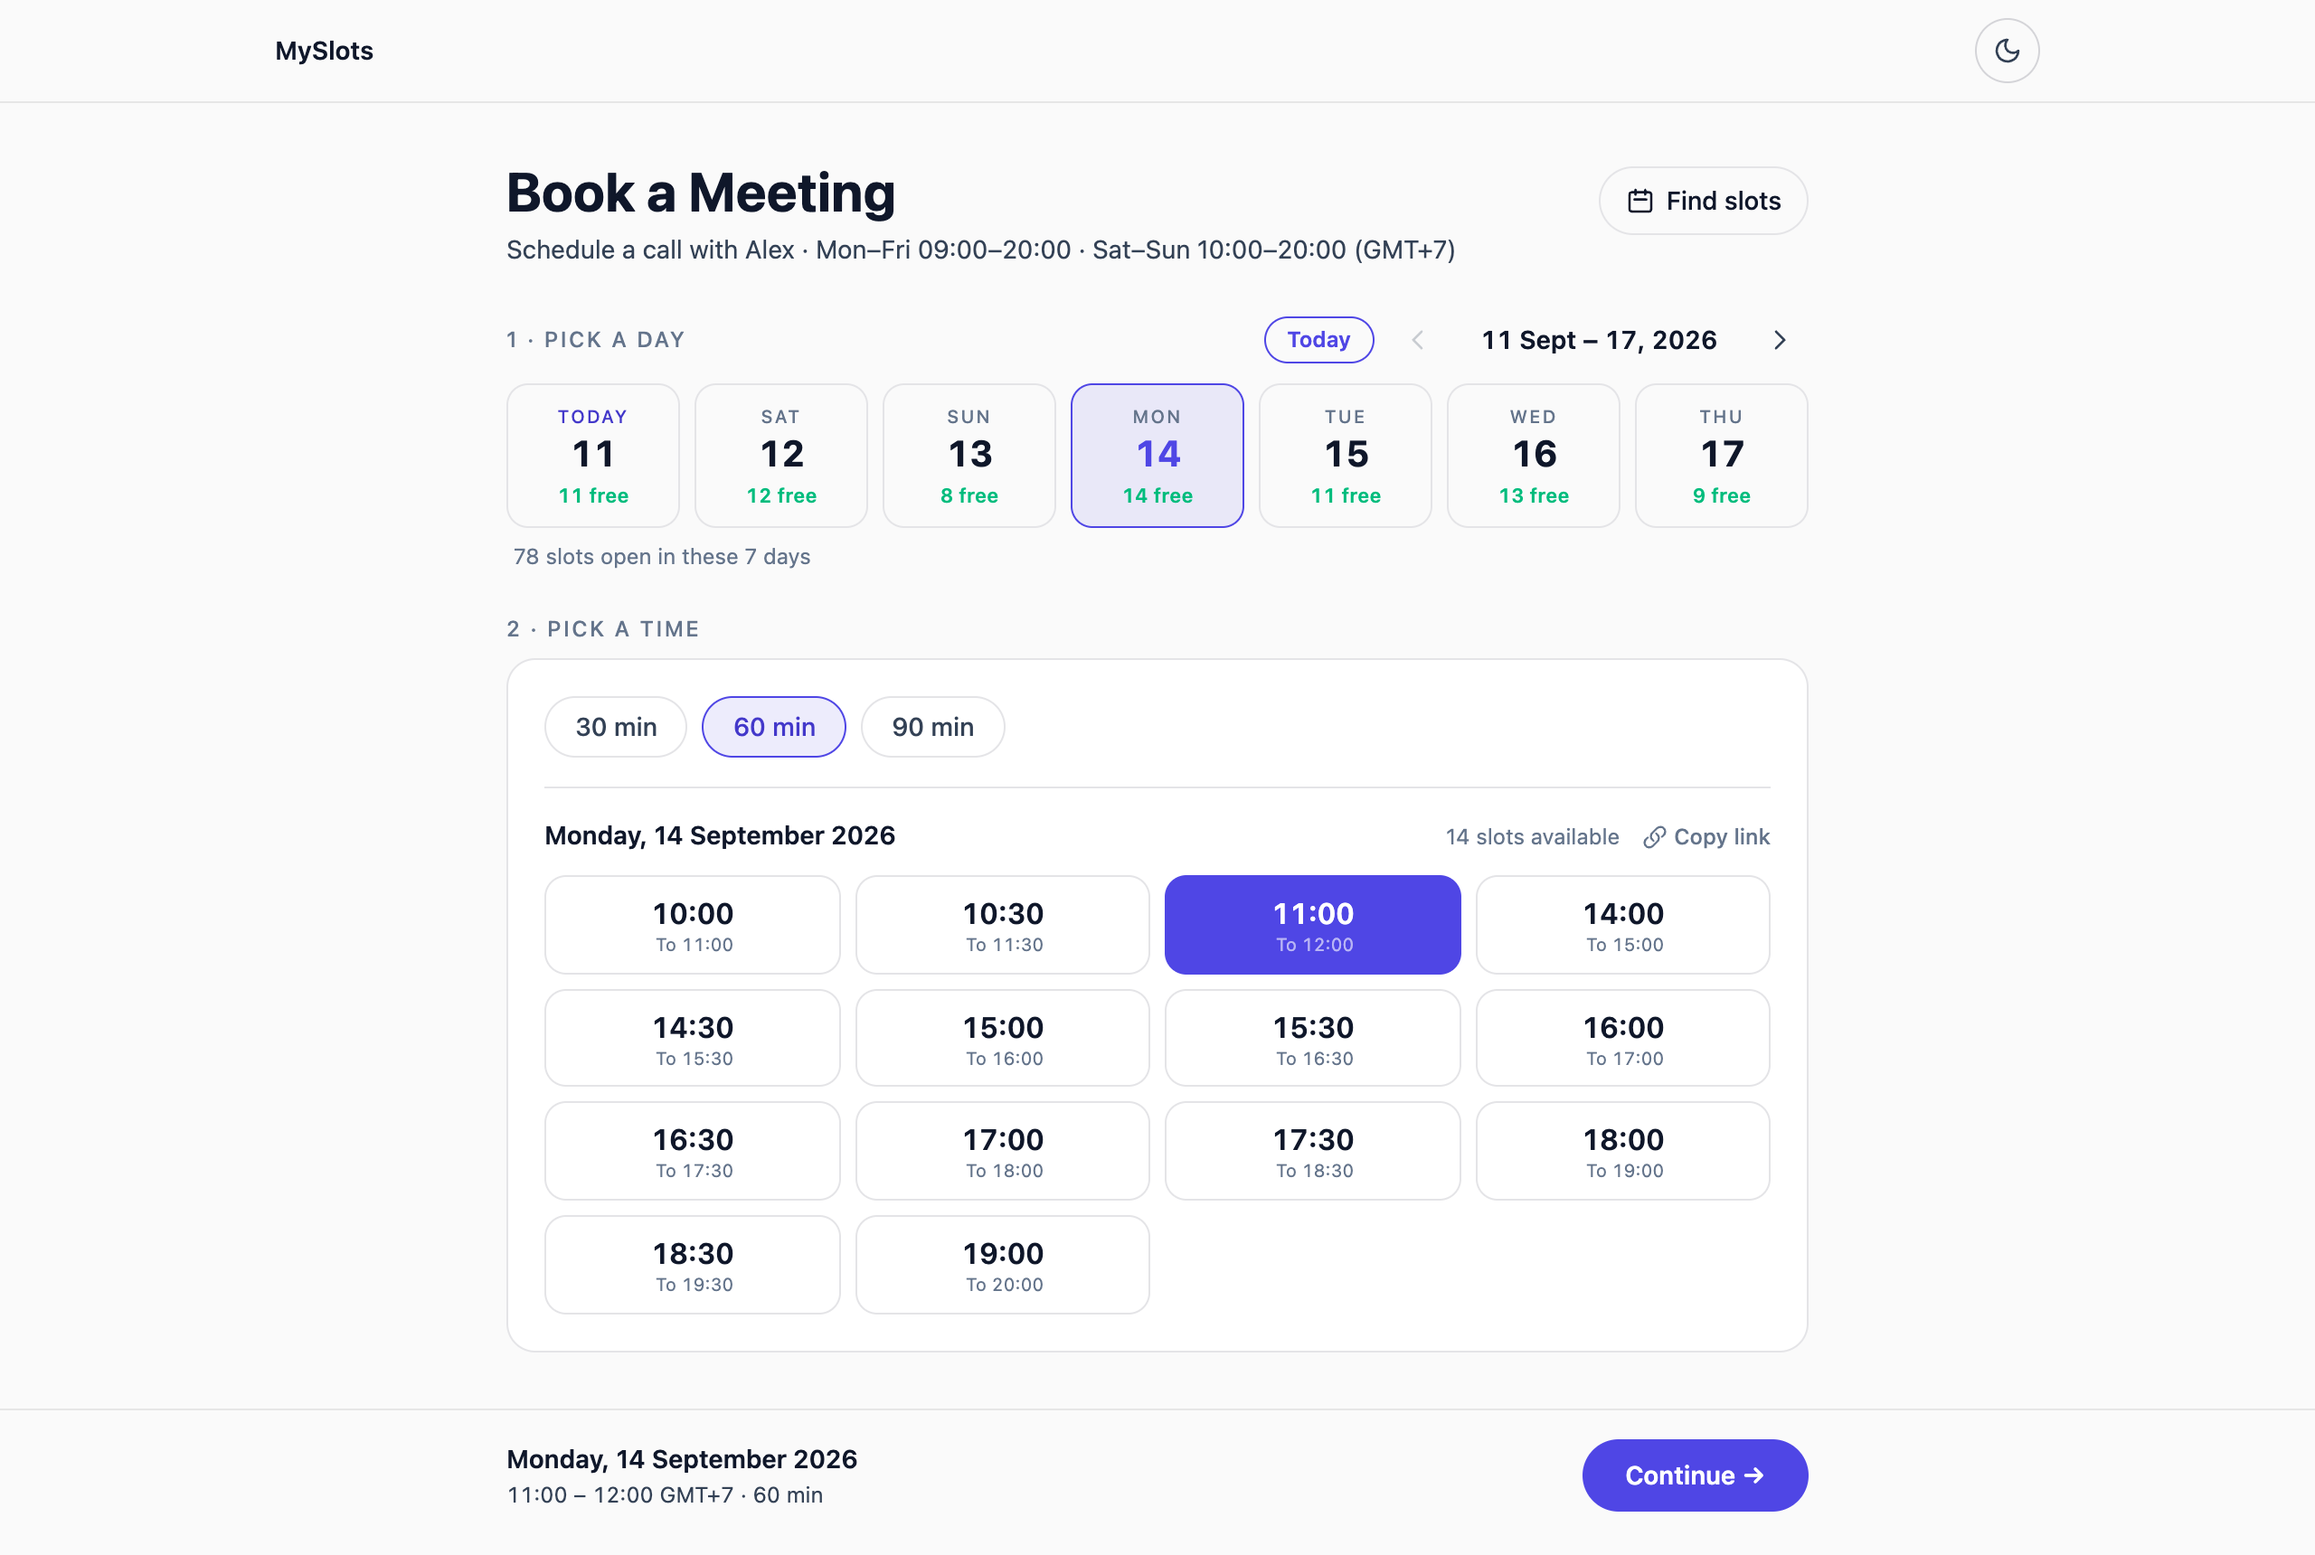
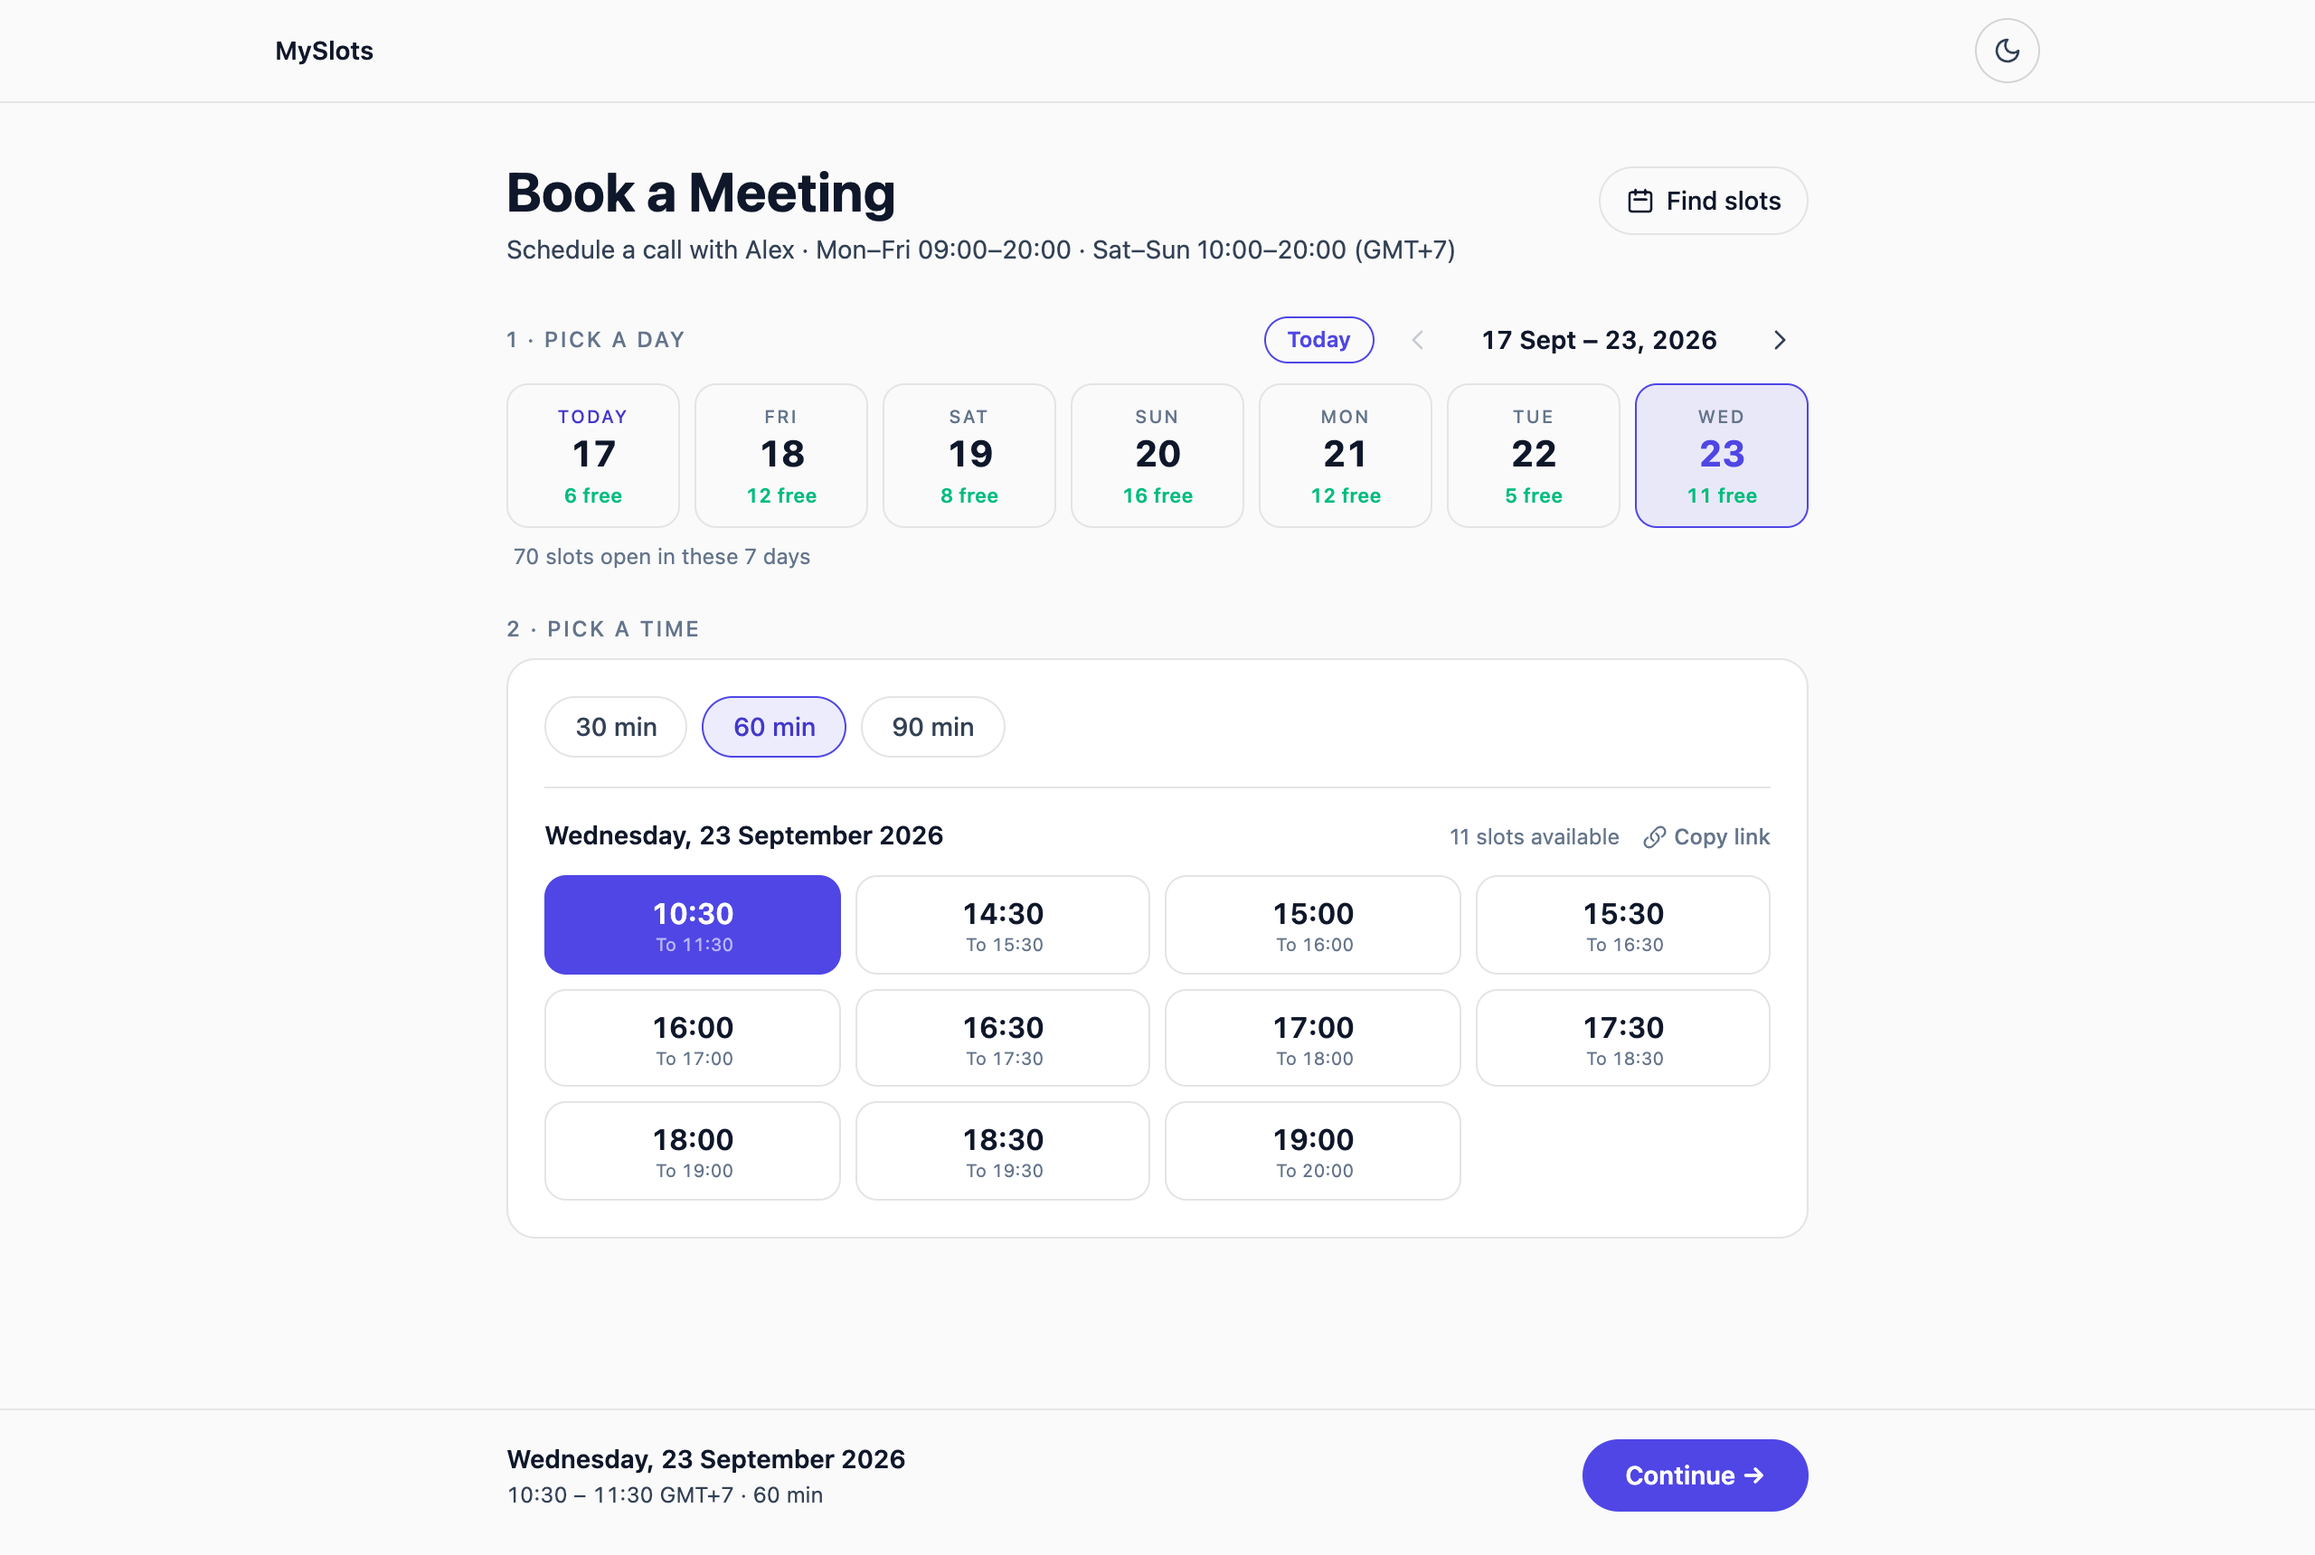
feat: keep time clear around every calendar event
A slot right after a meeting leaves no time to travel or prepare.
BUFFER_BEFORE_MINUTES / BUFFER_AFTER_MINUTES in config.ts grow every busy
block inside busyBetween, so the slot grid, Find slots, the booking
re-check and demo mode agree. Set both to 0 for back-to-back meetings.

README documents the buffers and its pictures are re-shot, since the
demo schedule now opens different slots.

diff --git a/src/lib/google-calendar.ts b/src/lib/google-calendar.ts
@@ -1,6 +1,6 @@
 import { google } from 'googleapis'
 import { demoBusyBetween } from './demo-availability'
-import { localParts } from './booking-time'
+import { bufferedLookupRange, localParts, withBuffers } from './booking-time'
 import { UTC_OFFSET } from './config'
 
 const CLIENT_ID = process.env.GOOGLE_CLIENT_ID
@@ -22,12 +22,20 @@ oauth2Client.setCredentials({ refresh_token: REFRESH_TOKEN })
 export const calendar = google.calendar({ version: 'v3', auth: oauth2Client })
 
 /**
- * Every busy block on the host's calendar that touches [from, to). Without
- * credentials it answers from the demo schedule, so the whole app still runs.
+ * Every busy block on the host's calendar that touches [from, to), already grown
+ * by the meeting buffers — so every caller agrees on what counts as taken.
+ * Without credentials it answers from the demo schedule, so the whole app still
+ * runs.
  */
 export async function busyBetween(from: Date, to: Date): Promise<{ start: Date; end: Date }[]> {
-  if (!isCalendarConfigured) return demoBusyBetween(from, to, d => localParts(d).dateKey, UTC_OFFSET)
+  const range = bufferedLookupRange(from, to)
+  const raw = isCalendarConfigured
+    ? await freeBusy(range.start, range.end)
+    : demoBusyBetween(range.start, range.end, d => localParts(d).dateKey, UTC_OFFSET)
+  return withBuffers(raw).filter(b => b.start < to && b.end > from)
+}
 
+async function freeBusy(from: Date, to: Date): Promise<{ start: Date; end: Date }[]> {
   const fb = await calendar.freebusy.query({
     requestBody: {
       timeMin: from.toISOString(),

diff --git a/src/lib/booking-time.ts b/src/lib/booking-time.ts
@@ -1,4 +1,6 @@
 import {
+  BUFFER_AFTER_MINUTES,
+  BUFFER_BEFORE_MINUTES,
   MAX_DAYS_AHEAD,
   SLOT_STEP_MINUTES,
   TIME_ZONE,
@@ -21,6 +23,30 @@ export interface Interval {
 export interface FreeWindow {
   start: string
   end: string
+}
+
+/**
+ * Busy blocks grown by the meeting buffers. A new meeting needs its before-buffer
+ * clear of whatever ends ahead of it, so each block's end moves later by that
+ * much; likewise its start moves earlier by the after-buffer. Every slot check
+ * can then stay a plain overlap test.
+ */
+export function withBuffers(busy: Interval[]): Interval[] {
+  return busy.map(b => ({
+    start: new Date(b.start.getTime() - BUFFER_AFTER_MINUTES * 60_000),
+    end: new Date(b.end.getTime() + BUFFER_BEFORE_MINUTES * 60_000),
+  }))
+}
+
+/**
+ * The raw lookup range that can hold a block which, once buffered, touches
+ * [from, to).
+ */
+export function bufferedLookupRange(from: Date, to: Date): Interval {
+  return {
+    start: new Date(from.getTime() - BUFFER_BEFORE_MINUTES * 60_000),
+    end: new Date(to.getTime() + BUFFER_AFTER_MINUTES * 60_000),
+  }
 }
 
 export function dayOfWeek(dateKey: string): number {

diff --git a/src/app/api/book/route.ts b/src/app/api/book/route.ts
@@ -82,8 +82,9 @@ export async function POST(request: NextRequest) {
 
   try {
     // The page may have been open for an hour. Whoever booked this time in the
-    // meantime keeps it; this visitor is told, and picks again. Back-to-back
-    // meetings are fine, so a block that merely touches an edge does not count.
+    // meantime keeps it; this visitor is told, and picks again. Busy blocks
+    // arrive already grown by the buffers, so a block that merely touches an
+    // edge still leaves the buffer intact and does not count.
     const clashes = (await busyBetween(start, end)).filter(b => b.start < end && b.end > start)
     if (clashes.length > 0) {
       return NextResponse.json({ error: 'That slot was just taken' }, { status: 409 })

diff --git a/src/lib/config.ts b/src/lib/config.ts
@@ -32,6 +32,16 @@ export const SLOT_STEP_MINUTES = 30
 export const RANGE_DAYS = 7      // days visible in the strip at once
 export const MAX_DAYS_AHEAD = 60 // how far ahead people may book
 
+/**
+ * Time kept clear around a booked meeting, in minutes — for travel, prep or a
+ * breather. Checked against every busy block on the calendar, not only earlier
+ * bookings: with 30 before, a 09:00–10:00 event makes 10:30 the first start.
+ * Buffers may spill past working hours; they never become calendar events.
+ * Set both to 0 for back-to-back meetings.
+ */
+export const BUFFER_BEFORE_MINUTES = 30
+export const BUFFER_AFTER_MINUTES = 30
+
 /** Give every booking a Google Meet room on the invite. */
 export const ADD_GOOGLE_MEET = true
 

diff --git a/README.md b/README.md
@@ -31,7 +31,7 @@ and an invite in every inbox. No SaaS, no seats, no account for them to create.
 |---|---|
 | 📅 **Real availability** | Reads your Google Calendar's free/busy. Titles and attendees never leave your calendar |
 | 🎥 **A Meet room on every booking** | Created with the event, shown on the confirmation screen and in every invite |
-| 🛡 **No double booking** | The calendar is re-checked the instant someone confirms. A slot taken meanwhile gets a clear "pick again", never a clash |
+| 🛡 **No double booking, no back-to-back** | The calendar is re-checked the instant someone confirms, and a buffer keeps time clear around every event for travel or prep — after a 09:00–10:00 meeting the first slot is 10:30 |
 | 📋 **Copy your week as text** | **Find slots** turns a date range into a paste-ready message for LINE, Slack or email |
 | 📬 **The email Google won't send you** | Google never tells the calendar owner about their own events, so MySlots mails you through Gmail |
 | 🔗 **Every view is a link** | `?date=…&duration=…&time=…` — send someone straight to a slot |
@@ -206,6 +206,8 @@ export const DURATIONS = [30, 60, 90]    // meeting lengths offered
 export const WEEKDAY_HOURS = { start: 9, end: 20 }
 export const WEEKEND_HOURS = { start: 10, end: 20 }
 export const ADD_GOOGLE_MEET = true     // a Meet room on every invite
+export const BUFFER_BEFORE_MINUTES = 30 // kept clear before a booked meeting
+export const BUFFER_AFTER_MINUTES = 30  // …and after it; 0 allows back-to-back
 ```
 
 ---
@@ -316,6 +318,16 @@ asks the Calendar **free/busy** API what is taken, and labels each slot.
 Free/busy only returns *when* you are busy, never event titles or attendees — so
 this endpoint cannot leak the contents of your calendar even though it is public.
 
+**Buffers.** Before any slot is checked, every busy block is grown by the buffers
+in `config.ts`: its end moves later by `BUFFER_BEFORE_MINUTES`, its start earlier
+by `BUFFER_AFTER_MINUTES`. With both at 30, a 09:00–10:00 event counts as busy
+from 08:30 to 10:30, so the first slot after it is 10:30 — and a meeting may end
+no later than 30 minutes before the next event. The widening happens once, in
+`busyBetween` (`src/lib/google-calendar.ts`), so all three endpoints — and demo
+mode — agree. It applies to every event on the calendar, not only bookings made
+here, the same way Calendly's buffers do. Buffers may spill past working hours,
+and they are never written to the calendar.
+
 The client fetches all seven visible days in parallel and counts the
 `available` slots per day to fill in the day strip. Weeks already seen are kept,
 so paging back is instant.
@@ -358,7 +370,7 @@ writing: the email must be well formed, the duration must be one you offer, the
 time must be in the future, on the slot grid, inside working hours and within
 `MAX_DAYS_AHEAD`, every guest address must
 parse, there may be at most `MAX_GUESTS` (10) of them, and a second free/busy
-check must still show the slot open. A slot taken between page load and submit
+check must still show the slot open, buffers included. A slot taken between page load and submit
 returns **409** rather than double-booking you.
 
 Guests are lowercased and de-duplicated, and the booker's own address and the
@@ -439,9 +451,9 @@ src/
     api/book/route.ts             validate → re-check → insert event
   lib/
     config.ts                     everything you are likely to change
-    booking-time.ts               working hours, slot grid, free windows
+    booking-time.ts               working hours, slot grid, buffers, free windows
     availability-text.ts          the Find slots message
-    google-calendar.ts            OAuth client, demo-mode detection
+    google-calendar.ts            OAuth client, demo-mode detection, buffered free/busy
     demo-availability.ts          synthetic busy blocks, no credentials needed
     booking-email.ts              sends the host notification through Gmail
     booking-email-template.ts     the markup of that email, on its own

diff --git a/CLAUDE.md b/CLAUDE.md
@@ -18,8 +18,12 @@ A single-person booking page: Next.js App Router, Tailwind v4, Google Calendar A
   never fails because the mail did.
 - `src/app/book/BookingFlow.tsx` — the whole three-step client flow.
 - `src/app/book/FindSlots.tsx` — the Find slots panel: free time as copyable text.
-- `src/lib/booking-time.ts` — working hours, slot grid, horizon, free windows and
-  the server-side slot check. Every endpoint reads its rules from here.
+- `src/lib/booking-time.ts` — working hours, slot grid, horizon, buffers, free
+  windows and the server-side slot check. Every endpoint reads its rules from here.
+- Meeting buffers (`BUFFER_BEFORE_MINUTES` / `BUFFER_AFTER_MINUTES`) are applied
+  once, inside `busyBetween`, which returns busy blocks already grown. Never pad
+  again at a call site, and never read free/busy around it — the endpoints would
+  stop agreeing on which slots are open.
 - `src/lib/availability-text.ts` — the Find slots message format.
 - `src/app/api/availability/windows/route.ts` — free stretches per day for a range.
 - `docs/hero.png`, `docs/demo.gif`, `docs/mobile.png` — README art, shot from demo
